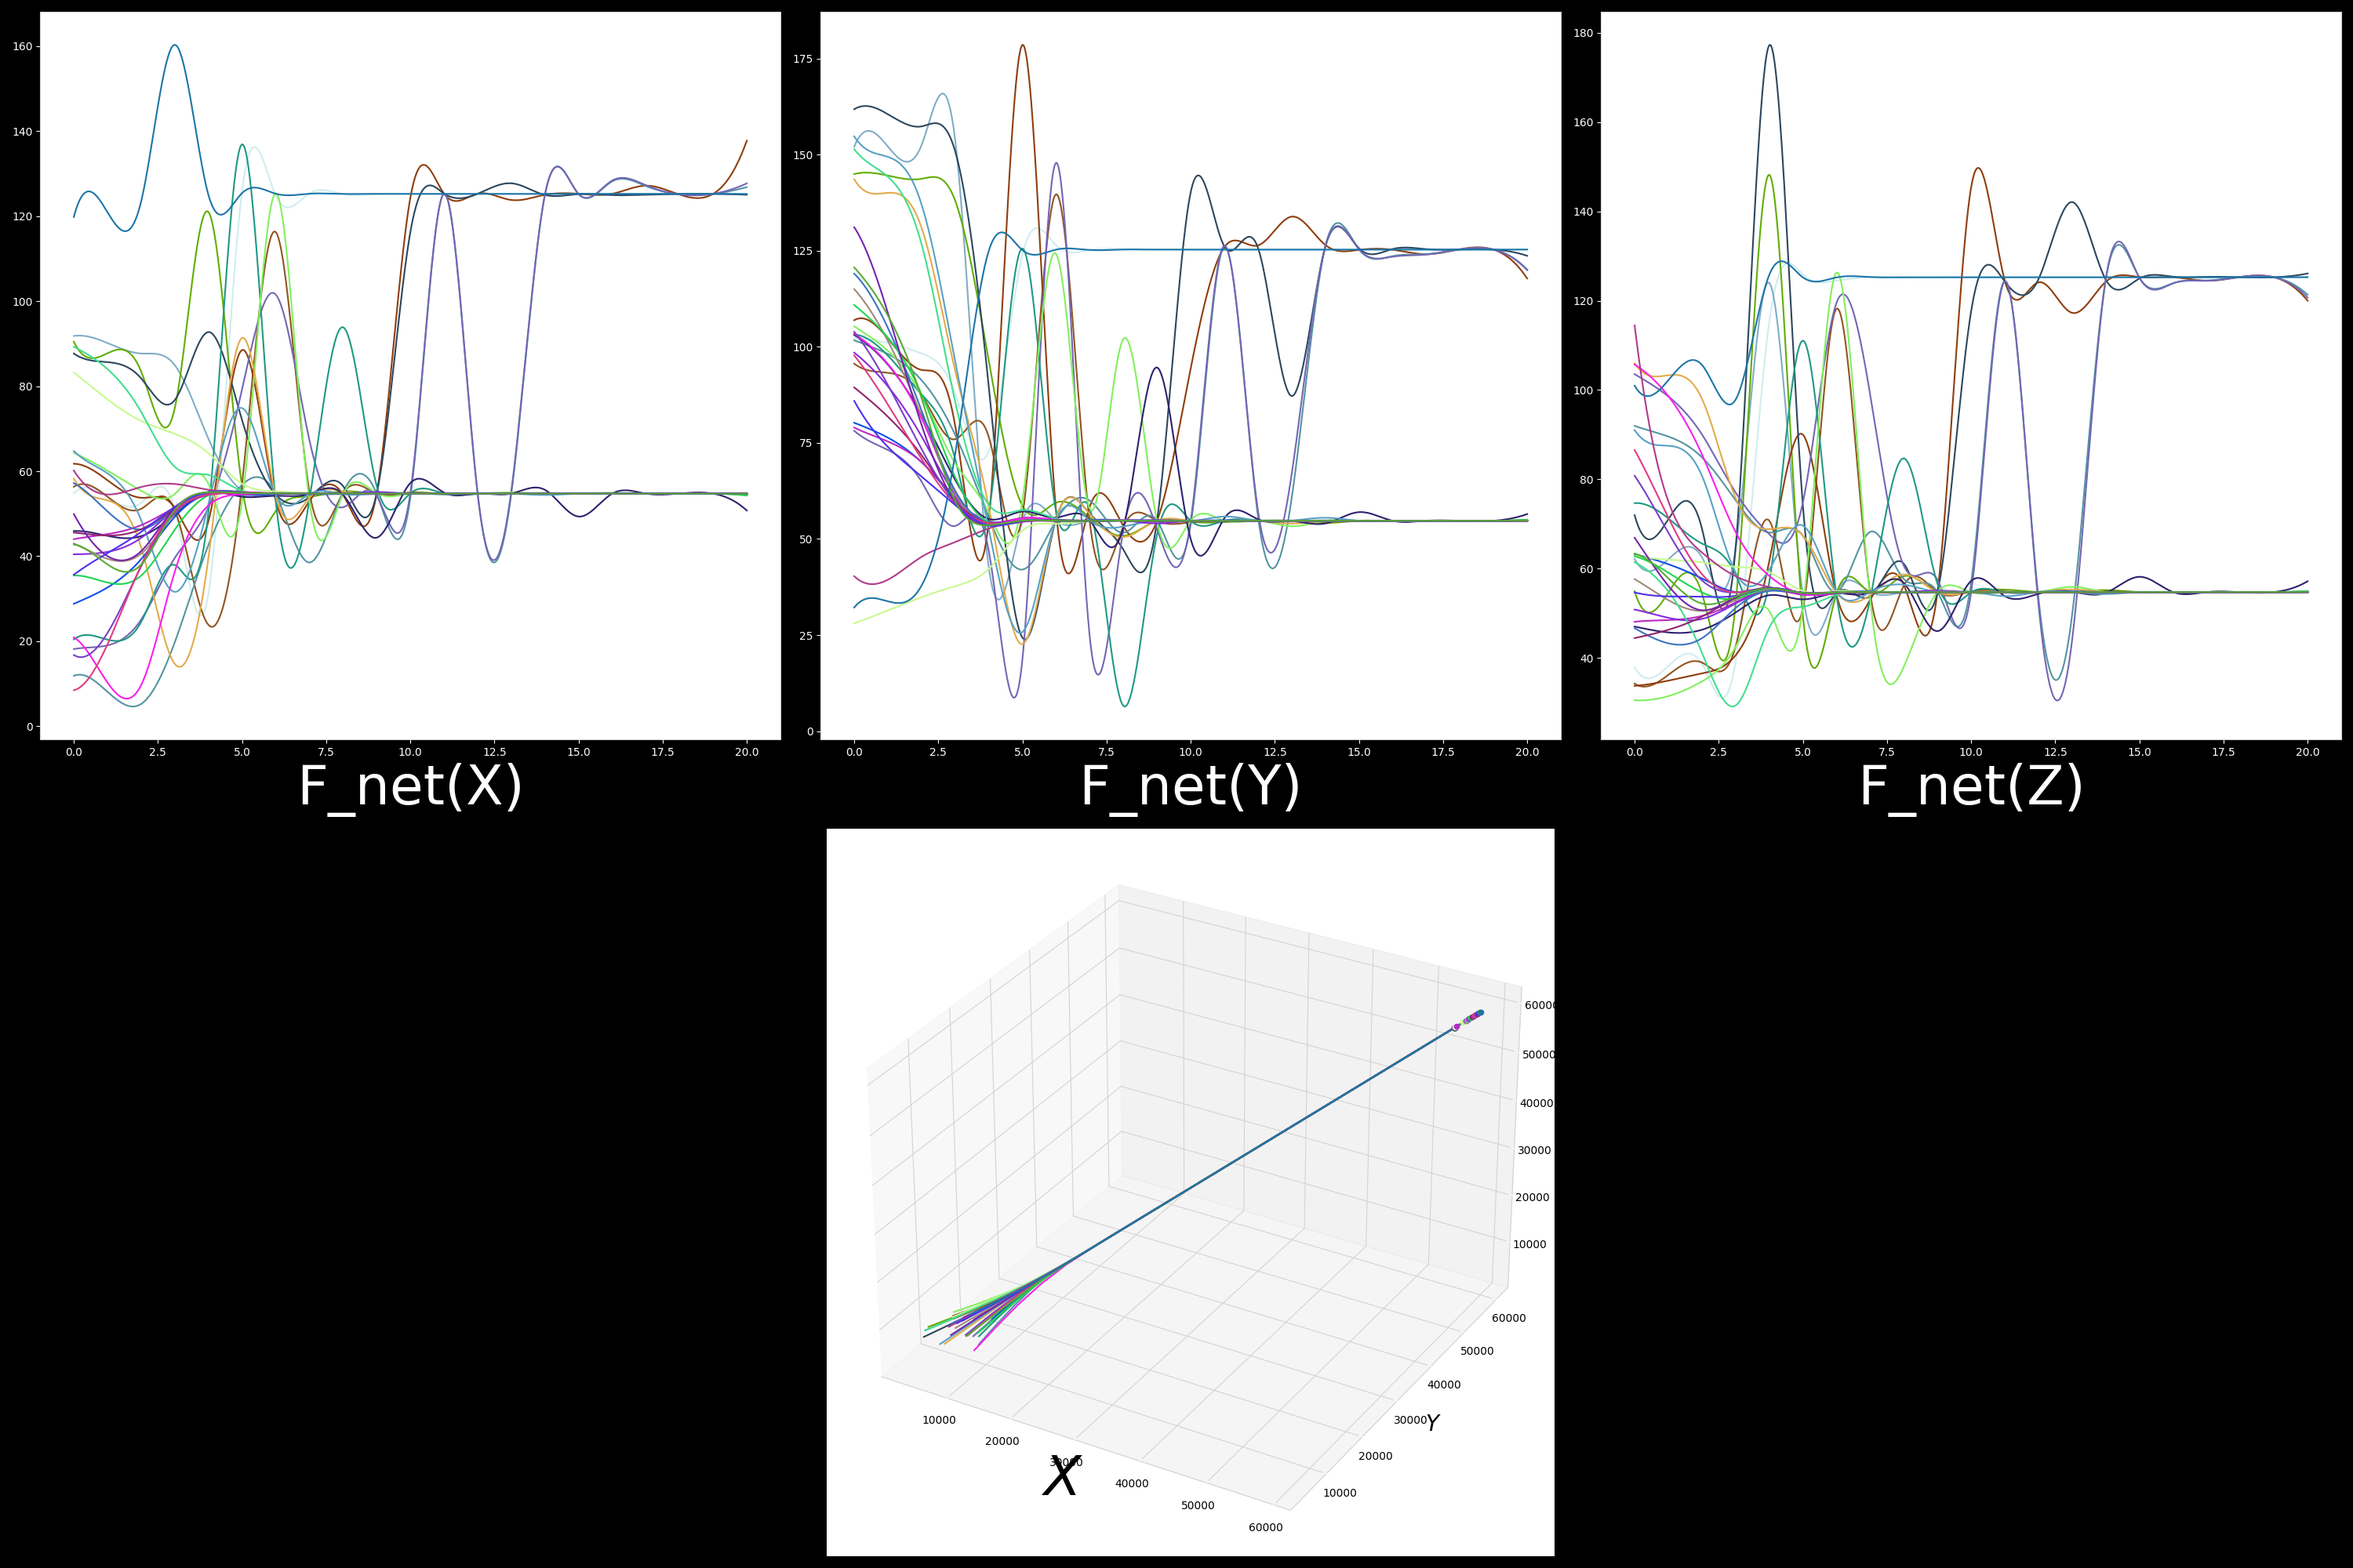
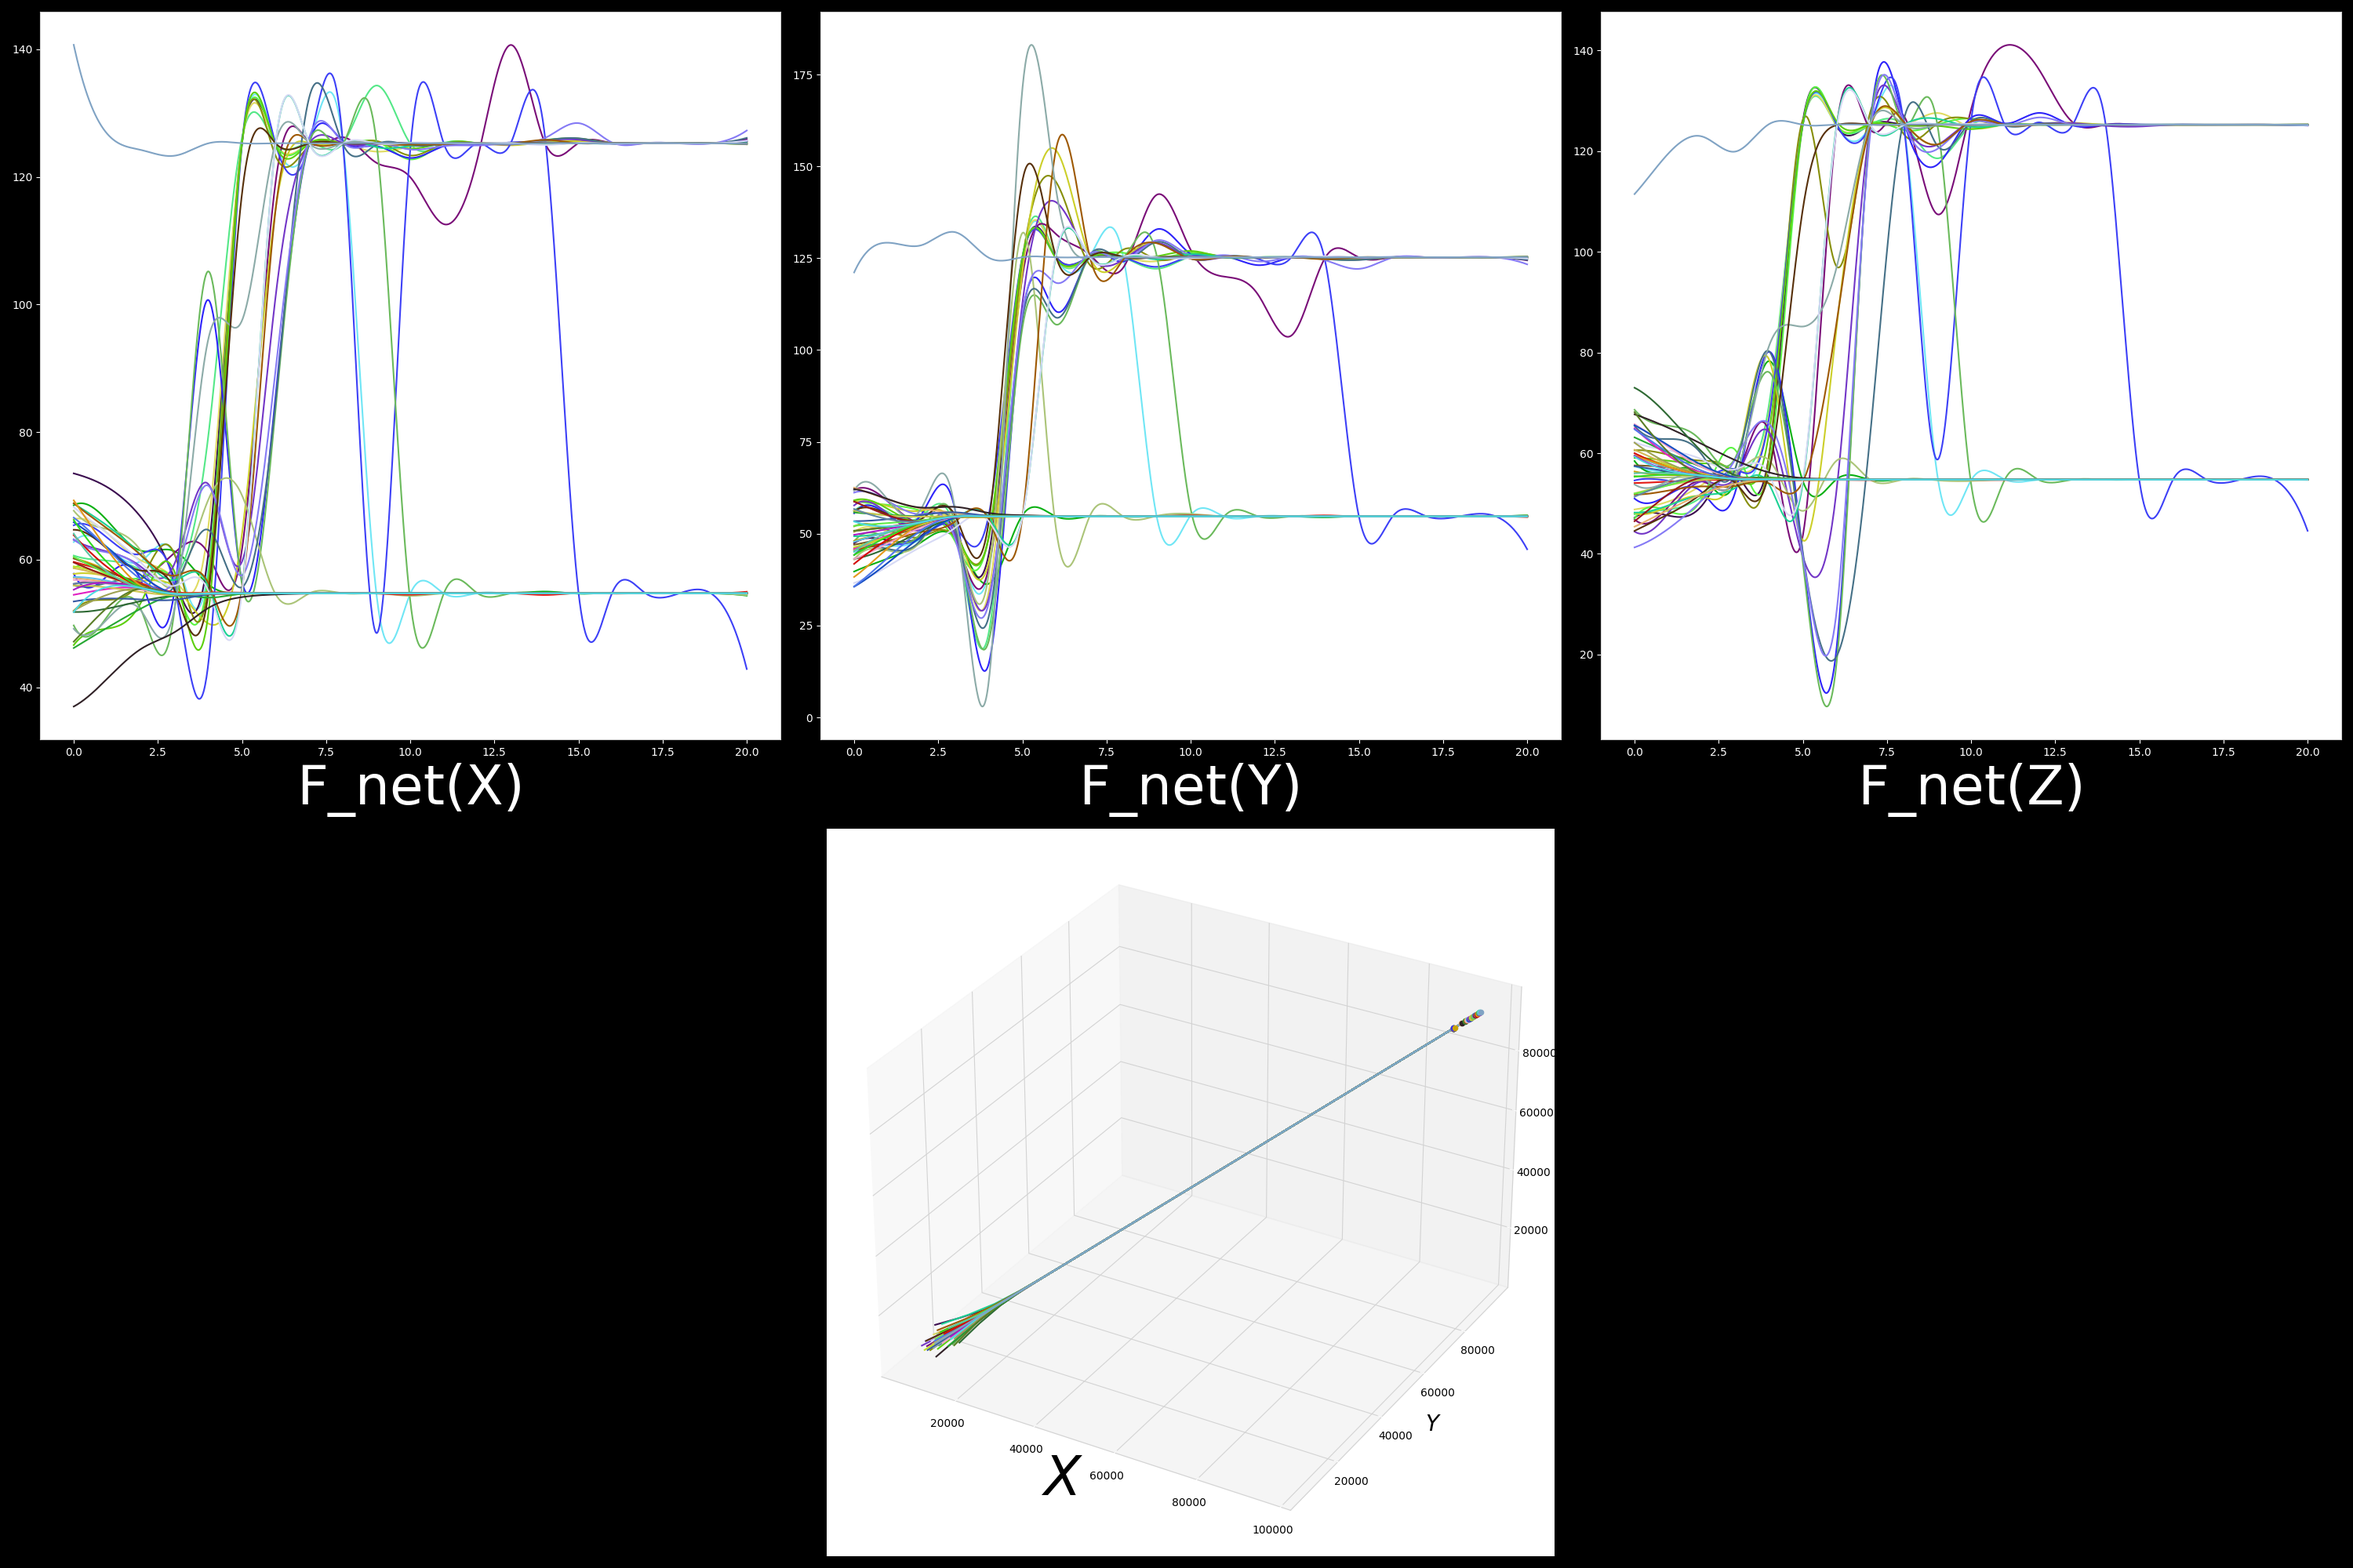
GUI

diff --git a/main.py b/main.py
@@ -3,6 +3,7 @@ import matplotlib.pyplot as plt
 import numpy as np
 from scipy import interpolate
 import random
+import PySimpleGUI as sg
 
 plt.rcParams.update({
 	"lines.color": "white",
@@ -131,7 +132,7 @@ def generateColor(bounds=[0,255],amount=3,PLACES=2):
 	
 	return tuple(list(map(lambda x: round(x/bounds[1],PLACES), outlist)))
 
-def graph(AMOUNTOFMASSES=30,ITERATIONS=10,masses=[],outfile="out.png"):
+def graph(AMOUNTOFMASSES=50,ITERATIONS=10,PARTMASS=PARTMASS,outfile="out.png"):
 	xl = []
 
 	MASSES = []
@@ -232,11 +233,66 @@ def graph(AMOUNTOFMASSES=30,ITERATIONS=10,masses=[],outfile="out.png"):
 	plt.tight_layout()
 	print("Finished Graph-Image Processing")
 
-	plt.savefig(outfile)
+	#plt.savefig(outfile)
+	plt.show()
 
-def run(ITERMAX=20):
-	graph(outfile="out1-2A.png", ITERATIONS=ITERMAX)
+def run(ITERMAX=20,AMOUNTOFMASSES=50,pMass=2):
+	graph(outfile="out1-2A.png", ITERATIONS=ITERMAX, AMOUNTOFMASSES=AMOUNTOFMASSES,PARTMASS=pMass)
 	print("Done")
 
+layout = [
+	[
+		sg.Text('Amount of Particles: ', size=(20, 1)),
+		sg.Slider(
+			(5, 100),
+			10,
+			1,
+			orientation="w",
+			size=(20, 15),
+			key="-PARTICLE SLIDER-",
+			enable_events=True
+		)
+	],
+	[
+		sg.Text('Mass of Particles', size=(20, 1)),
+		sg.Slider(
+			(1, 100),
+			2,
+			1,
+			orientation="w",
+			size=(20, 15),
+			key="-MASS SLIDER-",
+			enable_events=True
+		)
+	],
+	[
+		sg.Text('Amount of Iterations', size=(20, 1)),
+		sg.Slider(
+			(1, 100),
+			10,
+			1,
+			orientation="w",
+			size=(20, 15),
+			key="-ITER SLIDER-",
+			enable_events=True
+		)
+	],
+	[sg.Button("Generate Simulation")]
+]
+window = sg.Window(title="N-Body-Simulator", layout=layout, margins=(100, 50))
+currentbutton = None
+hasclickedbutton = False
 
+while True:
+	event, values = window.read()
+	if event == 'Exit':
+		break
+	elif event == "Generate Simulation":
+		if not hasclickedbutton and currentbutton == None:
+			pass
+		else:
+			amtParts, massParts, iterations = [values["-PARTICLE SLIDER-"], values["-MASS SLIDER-"], values["-ITER SLIDER-"]]
+			run(ITERMAX=iterations,AMOUNTOFMASSES=amtParts,pMass=massParts)
+
+window.close()
 run()
